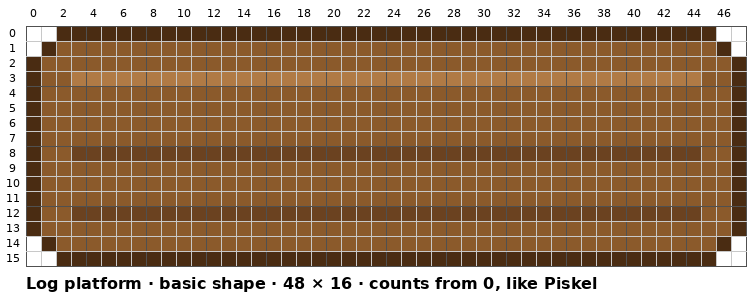
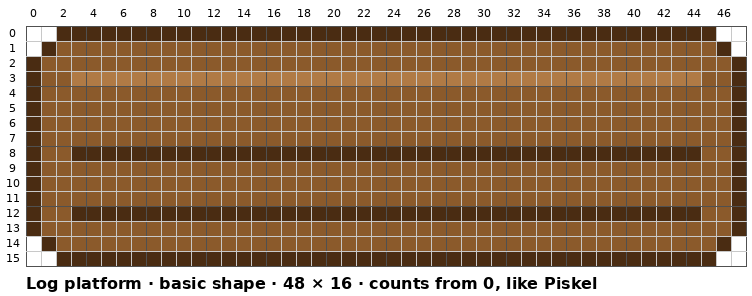
Platforms lesson: log bark lines in outline colour #4A2C12 for contrast; redraw log pictures and scene
Claude-Session: https://claude.ai/code/session_0163dwnT656jUnDkoJDXqKES

Changed region(s): [[0.0918, 0.6993, 0.9481, 0.7601], [0.0918, 0.4865, 0.9481, 0.5473]]

diff --git a/piskel/lesson-00-three-platforms/index.html b/piskel/lesson-00-three-platforms/index.html
@@ -29,7 +29,7 @@
 <section class="intro">
   <h2>What you will build</h2>
   <p>Three separate pictures (PNG files), each a different size. Here they are together in a game scene:</p>
-  <img class="ref" src="img/scene.png" alt="The ground platform, two floating stone blocks and a log in a sky-blue game scene" width="640" height="360">
+  <img class="ref" src="img/scene.png?v=3" alt="The ground platform, two floating stone blocks and a log in a sky-blue game scene" width="640" height="360">
   <table>
     <tr><th>Platform</th><th>Size</th><th>Style</th></tr>
     <tr><td><b>Big ground platform</b></td><td>64 × 16 pixels</td><td>Grass on top, dirt underneath. Place several side by side to make a long floor.</td></tr>
@@ -81,7 +81,7 @@
     <div class="band" style="--c:var(--p4)"><h4><a href="#part4">Part 4 · Log platform</a></h4><div class="bubbles">
       <div class="bubble"><b>4A · New sprite</b>New tab · Create Sprite<br>Resize 48 × 16<br>Optional: Log palette, 6 colours</div><span class="arrow">→</span>
       <div class="bubble"><b>4B · Outline + round ends</b>Rectangle #4A2C12<br>Erase 3 px per corner, add 1 inside</div><span class="arrow">→</span>
-      <div class="bubble"><b>4C · Fill + bark</b>Bucket #8B5A2B · row 3 #B07A45<br>rows 8 + 12 #6B4220</div><span class="arrow">→</span>
+      <div class="bubble"><b>4C · Fill + bark</b>Bucket #8B5A2B · row 3 #B07A45<br>rows 8 + 12 #4A2C12</div><span class="arrow">→</span>
       <div class="bubble"><b>4D · Cut end + knot</b>Face #DCB478 · rings #A87444<br>Knot · break the bark lines</div><span class="arrow">→</span>
       <div class="bubble"><b>4E · Save + export</b>log.piskel<br>log.png</div>
     </div></div>
@@ -335,13 +335,13 @@
 <summary><h2>Part 4 · Log platform</h2><span class="done"></span></summary>
 <div class="body">
 <p>A log is a cylinder lying on its side. Rounded ends and a light stripe near the top make a flat drawing look round. The detailed version adds a sawn-off end with tree rings.</p>
-<img class="ref" src="img/log-basic-grid.png?v=2" alt="The basic log on a numbered 48 by 16 grid" width="752" height="296">
+<img class="ref" src="img/log-basic-grid.png?v=3" alt="The basic log on a numbered 48 by 16 grid" width="752" height="296">
 <table>
 <tr><th>Swatch</th><th>Part of the log</th><th>Colour code</th><th>Quick notes</th></tr>
-<tr><td>1</td><td>Outline</td><td><b>#4A2C12</b> (very dark brown)</td><td><b>Rectangle</b>, round the corners · <b>Pen</b> cut-end oval, knot centre</td></tr>
+<tr><td>1</td><td>Outline and bark lines</td><td><b>#4A2C12</b> (very dark brown)</td><td><b>Rectangle</b>, round the corners · <b>Stroke</b> bark lines rows 8 + 12, cols 3–44 · <b>Pen</b> cut-end oval, knot centre</td></tr>
 <tr><td>2</td><td>Bark</td><td><b>#8B5A2B</b> (brown)</td><td><b>(fill)</b> Bucket · <b>Stroke</b> over rows 3, 8, 12 cols 37–45 to clear · <b>Pen</b> gaps in bark lines</td></tr>
 <tr><td>3</td><td>Light stripe</td><td><b>#B07A45</b> (light brown)</td><td><b>Stroke</b> row 3, cols 3–44</td></tr>
-<tr><td>4</td><td>Bark lines and knot</td><td><b>#6B4220</b> (darker brown)</td><td><b>Stroke</b> rows 8 + 12, cols 3–44 · <b>Pen</b> knot ring</td></tr>
+<tr><td>4</td><td>Knot ring</td><td><b>#6B4220</b> (darker brown)</td><td><b>Pen</b> knot ring</td></tr>
 <tr><td>5</td><td>Cut end (the wood face)</td><td><b>#DCB478</b> (pale wood)</td><td><b>(fill)</b> Bucket inside the oval</td></tr>
 <tr><td>6</td><td>Tree rings</td><td><b>#A87444</b> (medium brown)</td><td><b>Pen</b> ring cols 40–45, rows 4–11 · 2×2 centre dot</td></tr>
 </table>
@@ -367,14 +367,14 @@
 <ol>
 <li>Pick <b>#8B5A2B</b> (swatch 2), choose the <b>Paint bucket</b> <img src="../../assets/piskel/icon-bucket.png" alt="Paint bucket tool icon: a tipping paint can" width="57" height="57" style="height:1.6em;width:auto;vertical-align:middle;margin:0 .25em;border-radius:3px">, and click inside the log. If the colour spills outside, a rounded corner has a gap: press <b>Ctrl+Z</b> and check that corner against the picture.</li>
 <li>Pick <b>#B07A45</b> (swatch 3), choose the <b>Stroke tool</b> <img src="../../assets/piskel/icon-stroke.png" alt="Stroke tool icon: a pen drawing a straight line" width="65" height="62" style="height:1.6em;width:auto;vertical-align:middle;margin:0 .25em;border-radius:3px">, and drag along <b>row 3</b> from column 3 to column 44. This is the light shining on the top of the log.</li>
-<li>Pick <b>#6B4220</b> (swatch 4) and drag two more lines, from column 3 to column 44: one on <b>row 8</b> and one on <b>row 12</b>. These are the bark lines.</li>
+<li>Pick the outline colour <b>#4A2C12</b> (swatch 1) and drag two more lines, from column 3 to column 44: one on <b>row 8</b> and one on <b>row 12</b>. These are the dark bark lines.</li>
 </ol>
 <div class="note what"><b>Remember:</b> hold <b>Shift</b> and keep the mouse close to the row or column as you drag. If the line flips to a diagonal, move back before you let go.</div>
 
 <h3>4D · Cut end and knot</h3>
 <p>Show the sawn-off end of the log with its tree rings, and add a knot in the bark. Copy the pattern, or make up your own.</p>
-<img class="ref" src="img/log-grid.png?v=2" alt="The detailed log pattern on a numbered 48 by 16 grid" width="752" height="296">
-<img class="ref" src="img/log-big.png" alt="The finished detailed log, shown bigger" width="288" height="96">
+<img class="ref" src="img/log-grid.png?v=3" alt="The detailed log pattern on a numbered 48 by 16 grid" width="752" height="296">
+<img class="ref" src="img/log-big.png?v=3" alt="The finished detailed log, shown bigger" width="288" height="96">
 <ol>
 <li><b>Clear the way:</b> pick the bark colour <b>#8B5A2B</b> (swatch 2) and the <b>Stroke tool</b> <img src="../../assets/piskel/icon-stroke.png" alt="Stroke tool icon: a pen drawing a straight line" width="65" height="62" style="height:1.6em;width:auto;vertical-align:middle;margin:0 .25em;border-radius:3px">. Drag over <b>rows 3, 8 and 12</b> from column 37 to column 45. The right ends of the three lines disappear, so they won't cut through the wood face.</li>
 <li><b>Edge of the cut end:</b> pick <b>#4A2C12</b> (swatch 1) and, with the <b>Pen</b>, draw the tall oval at the right end, as in the picture: column 38 from row 3 to row 12, column 46 from row 3 to row 12, row 1 and row 14 from column 40 to column 45, and one corner pixel at each of row 2 and row 13 (columns 39 and 46).</li>
